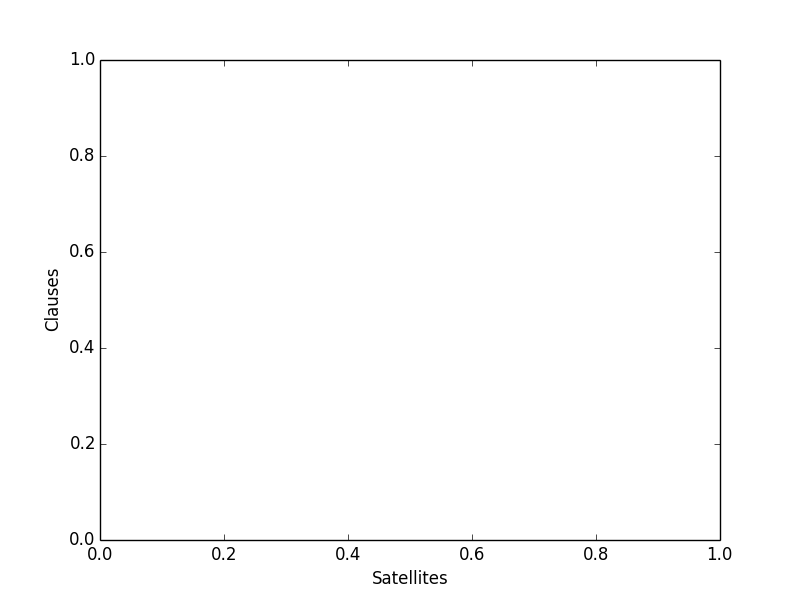
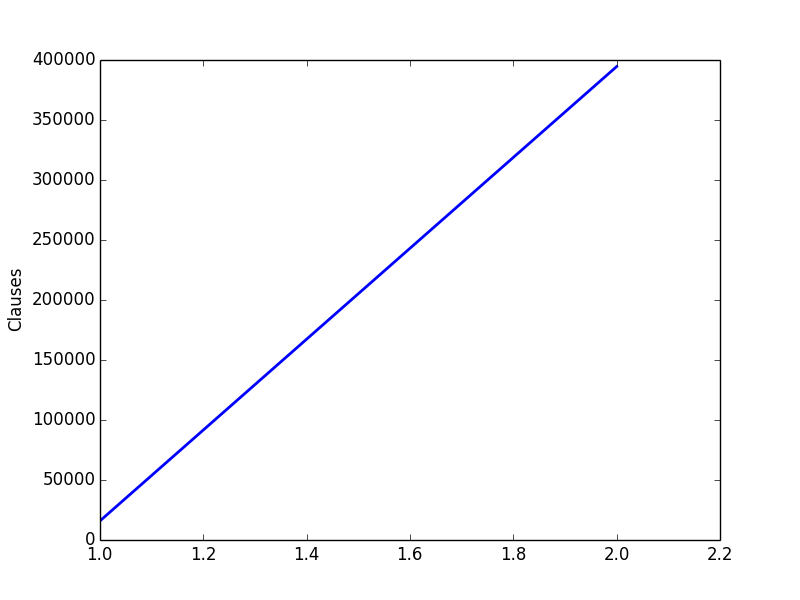
generation of satellite plots

diff --git a/code/plot.py b/code/plot.py
@@ -33,8 +33,27 @@ def makePlots( directory , xlabel ) :
 		makePlot( data , xlabel , key , "%s%s-%s.png" % ( directory , xlabel , key ) )
 	return lstStats
 
+def makePlots2( directory ) :
+	files = [ directory + f for f in os.listdir( directory ) if f.endswith( '.out' ) ]
+	stats = { 'time' : [] , 'props' : [] , 'clauses' : [] , 'size' : [] , 'satellites' : [] }
+	for name in files :
+		currentn = int( name.split( '-' )[ 1 ][ :2 ] )
+		stats[ 'satellites' ].append( currentn )
+		with open( name , 'r' ) as f :
+			for line in f :
+				if line.startswith( "SOLUTION" ) : break
+				( key , value ) = line.split( " = " )
+				stats[ key.lower() ].append( float( value ) )
+	plt.xlabel( 'Satellites' )
+	for key in stats :
+		if key == 'satellites' : continue
+		plt.ylabel( key.capitalize() )
+		plt.plot( stats[ 'satellites' ] , stats[ key ] , 'b-' , linewidth = 2.0 )
+		plt.savefig( "%s%s-%s.png" % ( directory , 'satellites' , key ) )
+		plt.clf()
+
 if __name__ == "__main__" :
 	directory = '/Users/nonwhite/Dropbox/IME/Laboratorio IA/LabIA_P3/code/blocks/'
 	makePlots( directory , 'blocks' )
 	directory = '/Users/nonwhite/Dropbox/IME/Laboratorio IA/LabIA_P3/code/satellite/'
-	makePlots( directory , 'satellites' )
+	makePlots2( directory )
